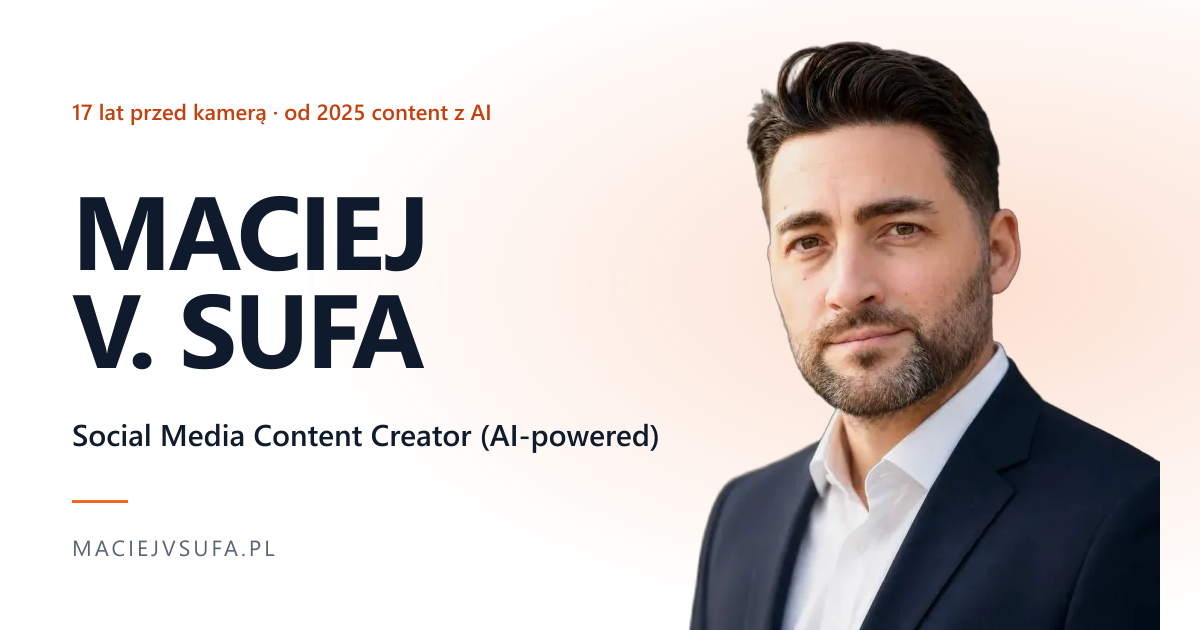
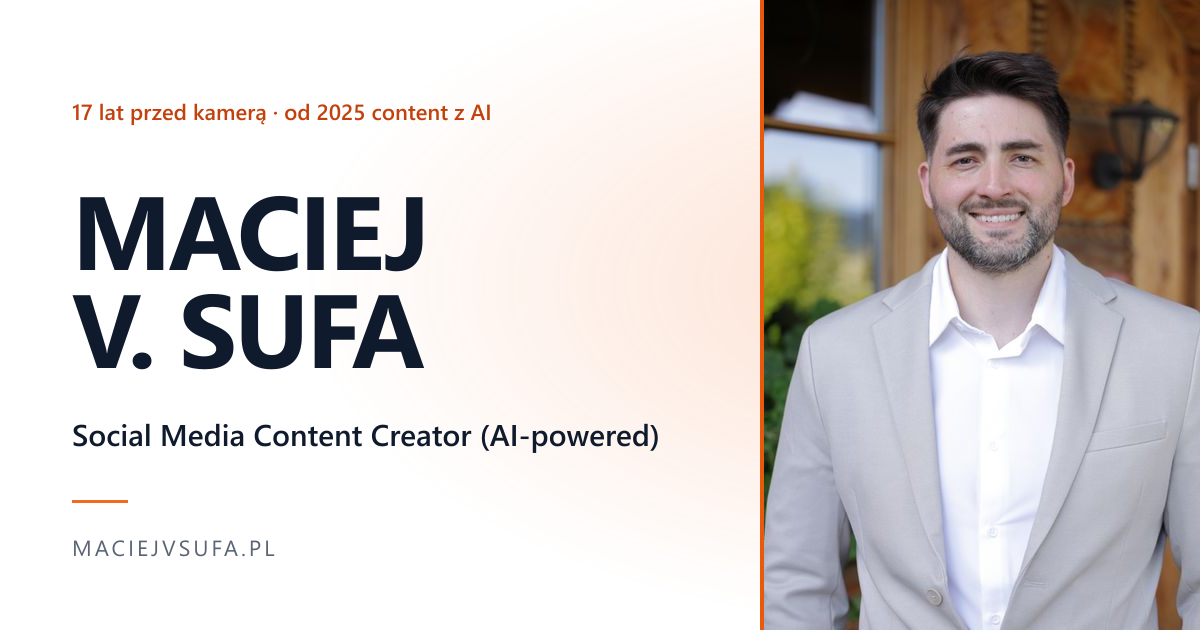
Nowe zdjęcia: portret „elegancja uśmiech” na pierwszym ekranie, plener w „O mnie”
- Pierwszy ekran: pionowy panel z portretem przy prawej krawędzi (pomarańczowa krawędź,
  delikatne przyciemnienie pod napisami nagłówka, które na zdjęciu są białe)
- „O mnie”: zdjęcie z pleneru pod tytułem; na telefonie szeroki kadr
- Źródła w photos-src/, generowanie scripts/build-photos.mjs; OG z nowym portretem
- Usunięte nieużywane pliki wycinanki i tła

diff --git a/app/globals.css b/app/globals.css
@@ -299,6 +299,40 @@ html:not(.story-on) .scene[data-tone="mist"] {
   transform: scaleX(var(--p, 0));
 }
 
+/* — zdjęcie pod tytułem sceny (plener w „O mnie”) — */
+.scene-aside {
+  margin-top: 28px;
+}
+.aside-photo {
+  position: relative;
+  overflow: hidden;
+  border-radius: 14px;
+  aspect-ratio: 4 / 5;
+  max-height: 46vh;
+  box-shadow: 0 24px 50px -32px rgba(var(--navy), 0.5);
+}
+.aside-photo img {
+  width: 100%;
+  height: 100%;
+  object-fit: cover;
+  object-position: 38% 30%;
+  transform: scale(1.06);
+  transition: transform 1.4s var(--ease-spring);
+}
+.scene[data-state="active"] .aside-photo img {
+  transform: scale(1);
+}
+.aside-photo::after {
+  /* pomarańczowy akcent w rogu kadru */
+  content: "";
+  position: absolute;
+  left: 0;
+  bottom: 0;
+  width: 42%;
+  height: 3px;
+  background: var(--orange);
+}
+
 /* — scena: infografika (stoi) + punkty (zmieniają się) — */
 .scene-stage {
   display: flex;
@@ -1127,43 +1161,51 @@ html:not(.story-on) .scene[data-tone="mist"] {
   overflow: hidden;
   background: linear-gradient(120deg, #ffffff 30%, #eef2f7);
 }
-.hero-bg::before,
 .hero-bg::after {
   content: "";
   position: absolute;
   inset: 0;
-}
-.hero-bg::before {
-  background: url("/hero-bg.webp") center / cover no-repeat;
-  opacity: 0.16;
-  filter: saturate(0.4);
-}
-.hero-bg::after {
   background:
     linear-gradient(rgba(var(--navy), 0.04) 1px, transparent 1px) 0 0 / 48px 48px,
     linear-gradient(90deg, rgba(var(--navy), 0.04) 1px, transparent 1px) 0 0 / 48px 48px;
   mask-image: linear-gradient(90deg, #000 20%, transparent 70%);
 }
-.hero-bg-zoom {
+/* portret: pionowy panel od krawędzi kolumny z imieniem (67%) do prawej krawędzi ramki */
+.hero-photo {
   position: absolute;
-  inset: 0;
-  z-index: 1;
-  transform-origin: 80% 40%;
-  animation: heroZoom 3s cubic-bezier(0.12, 0.23, 0.5, 1) both;
-  container-type: size;
-}
-.hero-fig {
-  --edge: calc(var(--px) + (100cqw - 2 * var(--px)) * 0.67);
-  --fig-h: calc(100cqh - 56px);
-  position: absolute;
+  top: 0;
+  right: 0;
   bottom: 0;
-  left: calc((var(--edge) + 100cqw) / 2 - var(--fig-h) * 800 / 995 * 0.44);
-  height: var(--fig-h);
-  width: auto;
-  max-width: none;
-  aspect-ratio: 800 / 995;
-  object-fit: contain;
-  object-position: bottom;
+  z-index: 1;
+  width: calc(100% - var(--px) - (100% - 2 * var(--px)) * 0.67 - 24px);
+  overflow: hidden;
+}
+.hero-photo img {
+  width: 100%;
+  height: 100%;
+  object-fit: cover;
+  object-position: 52% 22%;
+  animation: heroZoom 3s cubic-bezier(0.12, 0.23, 0.5, 1) both;
+}
+/* cienka pomarańczowa krawędź panelu + delikatne przyciemnienie u góry pod napisy nagłówka */
+.hero-photo::before,
+.hero-photo::after {
+  content: "";
+  position: absolute;
+  z-index: 1;
+  pointer-events: none;
+}
+.hero-photo::before {
+  left: 0;
+  top: 0;
+  bottom: 0;
+  width: 3px;
+  background: var(--orange);
+}
+.hero-photo::after {
+  inset: 0 0 auto 0;
+  height: 140px;
+  background: linear-gradient(rgba(11, 27, 51, 0.45), transparent);
 }
 @keyframes heroZoom {
   from {
@@ -1364,12 +1406,20 @@ html:not(.story-on) .scene[data-tone="mist"] {
 .site-header a:hover {
   color: var(--accent);
 }
+/* na pierwszym ekranie „Pobierz CV / PL-EN” leżą na zdjęciu — białe; dalej granatowe */
 .hdr-links,
-.hdr-right,
-.hdr-bottom {
-  text-shadow:
-    0 0 6px rgba(255, 255, 255, 0.95),
-    0 0 14px rgba(255, 255, 255, 0.8);
+.hdr-right {
+  transition: color 0.5s var(--ease-spring);
+}
+.on-hero .hdr-links,
+.on-hero .hdr-right,
+.on-hero .hdr-right .lang a,
+.on-hero .hdr-right .lang a.on {
+  color: #fff;
+  text-shadow: 0 1px 10px rgba(11, 27, 51, 0.5);
+}
+.on-hero .hdr-right .lang a:not(.on) {
+  color: rgba(255, 255, 255, 0.7);
 }
 .hdr-bottom {
   position: absolute;
@@ -1551,13 +1601,35 @@ html:not(.story-on) .split-parent .sp {
   .hero-quote {
     display: none;
   }
-  .hero-fig {
-    --fig-h: 44cqh;
-    top: 58px;
+  .hero-photo {
+    left: 0;
+    width: auto;
     bottom: auto;
-    left: calc(50cqw - var(--fig-h) * 800 / 995 * 0.44);
-    -webkit-mask-image: linear-gradient(to bottom, #000 72%, transparent);
-    mask-image: linear-gradient(to bottom, #000 72%, transparent);
+    height: 56%;
+    -webkit-mask-image: linear-gradient(to bottom, #000 70%, transparent);
+    mask-image: linear-gradient(to bottom, #000 70%, transparent);
+  }
+  .hero-photo::before {
+    display: none;
+  }
+  .hero-photo img {
+    object-position: 50% 18%;
+  }
+  .on-hero .hdr-logo,
+  .on-hero .hdr-menu button,
+  .on-hero .hdr-status {
+    color: #fff;
+    text-shadow: 0 1px 10px rgba(11, 27, 51, 0.55);
+  }
+  .scene-aside {
+    margin-top: 12px;
+  }
+  .aside-photo {
+    aspect-ratio: 16 / 7;
+    max-height: none;
+  }
+  .aside-photo img {
+    object-position: 40% 28%;
   }
   .hero {
     justify-content: flex-end;

diff --git a/components/sections/hero.tsx b/components/sections/hero.tsx
@@ -3,26 +3,17 @@ import { FitText } from "@/components/fx/fit-text";
 import { SplitText } from "@/components/fx/split-text";
 
 /**
- * Stałe tło strony (przewijana treść jedzie po nim), czarno-białe, dwie warstwy:
- * rozmyte tło na cały ekran + postać przy prawej krawędzi — twarz wypada w pasie,
- * którego czarny panel nie zasłania, więc wizerunek widać przez całe przewijanie.
- * Wejście: skala 1.2 → 1 przez 3 s (jak w szablonie).
+ * Tło pierwszego ekranu: jasna siatka + pionowy portret („elegancja uśmiech 2”) jako panel
+ * przy prawej krawędzi, jak w magazynie. Imię i cytat stoją po lewej, poza zdjęciem.
+ * Wejście: zdjęcie powoli się przybliża do skali 1 (3 s).
  */
 export function HeroBackdrop({ alt }: { alt: string }) {
   return (
     <div className="hero-bg">
-      <div className="hero-bg-zoom">
+      <div className="hero-photo">
         <picture>
-          <source media="(max-width: 809px)" srcSet="/hero-fig-480.webp" type="image/webp" />
-          <img
-            className="hero-fig"
-            src="/hero-fig.webp"
-            alt={alt}
-            width={800}
-            height={995}
-            fetchPriority="high"
-            decoding="async"
-          />
+          <source media="(max-width: 809px)" srcSet="/photos/hero-portret-640.webp" type="image/webp" />
+          <img src="/photos/hero-portret.webp" alt={alt} width={1000} height={1501} fetchPriority="high" decoding="async" />
         </picture>
       </div>
     </div>

diff --git a/app/layout.tsx b/app/layout.tsx
@@ -68,7 +68,7 @@ const jsonLd = {
       "@id": personId,
       name: site.name,
       url: site.url,
-      image: `${site.url}/hero-fig.webp`,
+      image: `${site.url}/photos/hero-portret.webp`,
       jobTitle: site.jobTitle,
       email: `mailto:${site.email}`,
       sameAs: [site.socials.instagram, site.socials.facebook, site.socials.linkedin, site.socials.github],
@@ -105,8 +105,8 @@ export default function RootLayout({ children }: Readonly<{ children: React.Reac
               "var d=document.documentElement;d.classList.add('story-on');if(matchMedia('(prefers-reduced-motion: reduce)').matches)d.classList.add('story-still')",
           }}
         />
-        <link rel="preload" as="image" href="/hero-fig-480.webp" type="image/webp" media="(max-width: 809px)" fetchPriority="high" />
-        <link rel="preload" as="image" href="/hero-fig.webp" type="image/webp" media="(min-width: 810px)" fetchPriority="high" />
+        <link rel="preload" as="image" href="/photos/hero-portret-640.webp" type="image/webp" media="(max-width: 809px)" fetchPriority="high" />
+        <link rel="preload" as="image" href="/photos/hero-portret.webp" type="image/webp" media="(min-width: 810px)" fetchPriority="high" />
         {/* bez JavaScriptu treść ma być widoczna od razu */}
         <noscript>
           <style>{`.split .sp,.fade-in{opacity:1!important;transform:none!important;filter:none!important}`}</style>

diff --git a/components/fx/scene.tsx b/components/fx/scene.tsx
@@ -17,6 +17,7 @@ export function Scene({
   items,
   phoneItems = [],
   visual,
+  aside,
   shape = "a",
 }: {
   num: string;
@@ -27,6 +28,8 @@ export function Scene({
   phoneItems?: ReactNode[];
   /** infografika stojąca nad punktami; podświetla elementy .hlx.hl-N dla aktywnego punktu N */
   visual?: ReactNode;
+  /** element pod tytułem w lewej kolumnie (np. zdjęcie) */
+  aside?: ReactNode;
   /** wariant układu (zostawione dla zgodności; ozdoby usunięte w wersji „profesjonalnej”) */
   shape?: "a" | "b" | "c" | "d";
 }) {
@@ -55,6 +58,7 @@ export function Scene({
                 <span />
               </span>
             </div>
+            {aside ? <div className="scene-aside">{aside}</div> : null}
           </header>
           <div className="scene-stage">
             {visual ? <div className="scene-visual">{visual}</div> : null}

diff --git a/components/sections/cv-sections.tsx b/components/sections/cv-sections.tsx
@@ -21,6 +21,14 @@ export function OMnie({ t }: { t: SiteContent }) {
       num={a.kicker}
       title={a.title}
       tone="white"
+      aside={
+        <figure className="aside-photo">
+          <picture>
+            <source media="(max-width: 809px)" srcSet="/photos/plener-480.webp" type="image/webp" />
+            <img src="/photos/plener.webp" alt={t.hero.photoAlt} width={900} height={900} loading="lazy" decoding="async" />
+          </picture>
+        </figure>
+      }
       visual={
         <ul className="kpis">
           {a.kpis.map((k) => (

diff --git a/components/story/story-controller.tsx b/components/story/story-controller.tsx
@@ -57,6 +57,8 @@ export function StoryController() {
         });
         frame.dataset.tone = scenes[k].dataset.tone ?? "";
         frame.dataset.scene = String(k);
+        // nagłówek nad zdjęciem pierwszego ekranu — jasne napisy
+        document.querySelector(".site-header")?.classList.toggle("on-hero", k === 0);
         rail.forEach((a) => a.classList.toggle("on", Number(a.dataset.i) === k));
       }
 
